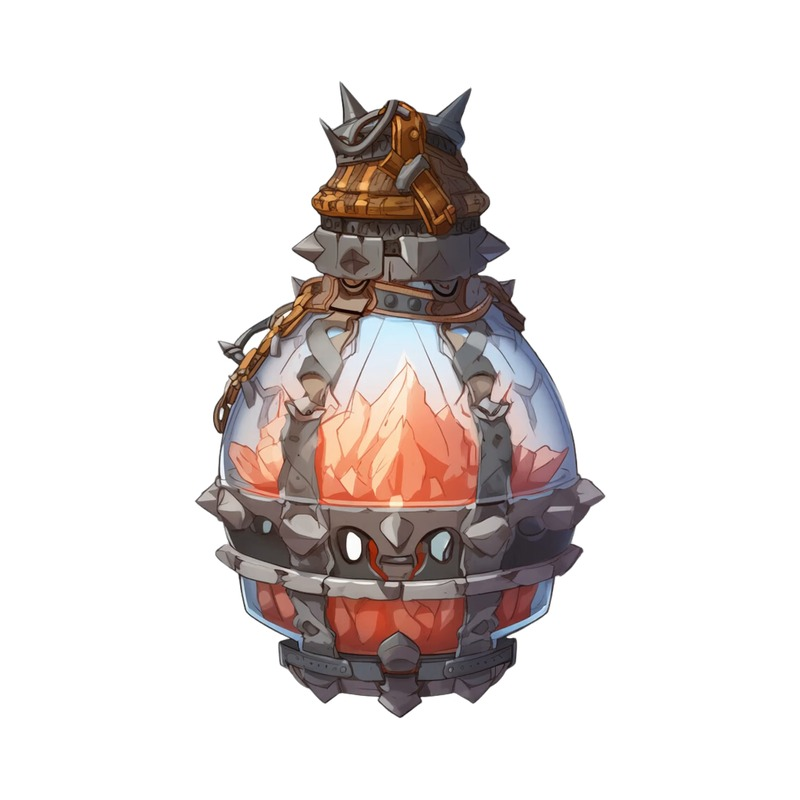
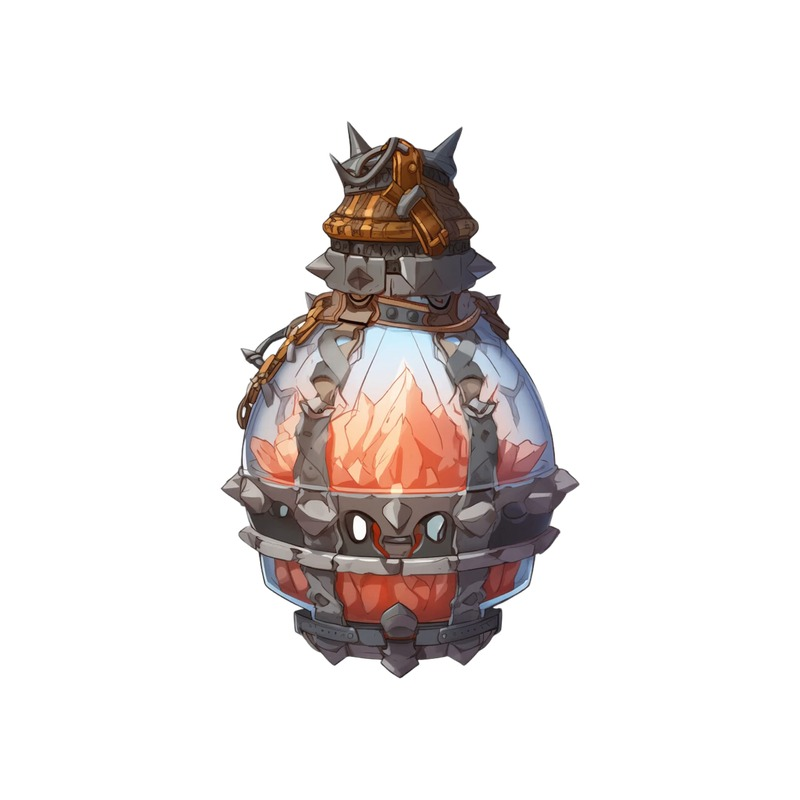
행성 표시를 작게 — 이미지 비율 축소 + 4열 배치
행성만 지나치게 커 보였다. 원인이 둘이었다:
- 그리드가 2열이라 카드 자체가 캐릭터(3열)보다 1.5배 컸다
- 행성은 둥글어서 같은 '긴 변 기준'이어도 캐릭터보다 면적이 크다

- 행성 그리드를 4열로 (카드 폭 약 232px, 캐릭터 330px보다 작다)
- 행성 이미지 비율 0.80 → 0.70

Changed region(s): [[0.25, 0.0938, 0.75, 0.9062]]

diff --git a/assets/style.css b/assets/style.css
@@ -94,7 +94,7 @@ h2 { font-size: 30px; margin: 0 0 10px; letter-spacing: .01em; }
 .figure img { border-radius: 14px; border: 1px solid var(--line-2); box-shadow: 0 10px 30px rgba(0,0,0,.45); }
 .figure p { font-size: 14px; color: var(--muted); margin: 10px 0 0; }
 .shot-grid { grid-template-columns: repeat(auto-fit, minmax(200px, 260px)); }
-.planet-grid { grid-template-columns: repeat(auto-fit, minmax(380px, 1fr)); }
+.planet-grid { grid-template-columns: repeat(auto-fit, minmax(200px, 1fr)); }
 
 /* 캐릭터·행성 이미지는 흰 배경 소재라 어두운 판 위에 흰 카드로 띄운다 */
 .char img, .planet img {
